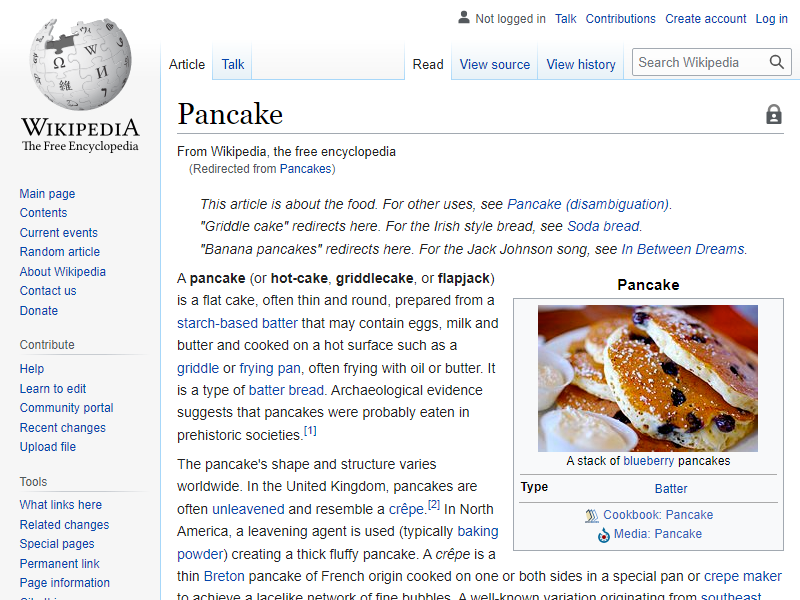
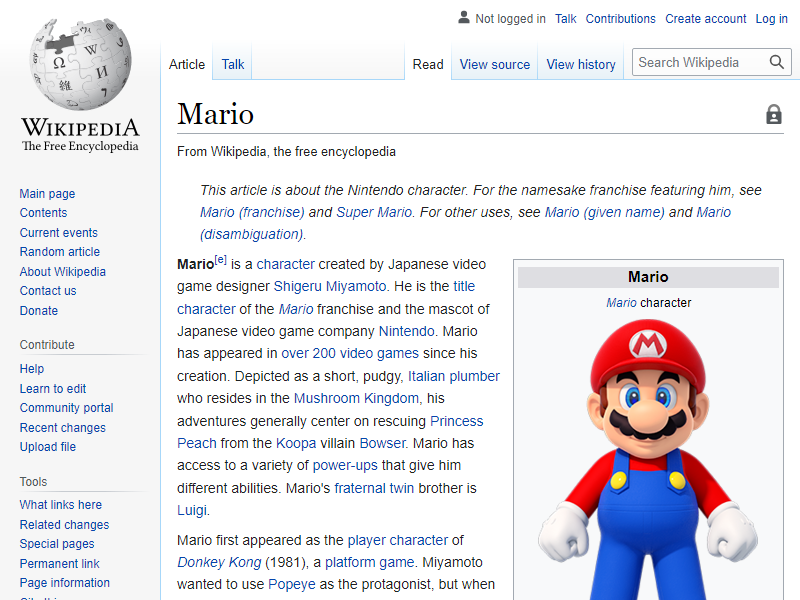
Can find random images

Changed region(s): [[0.2188, 0.27, 1.0, 1.0], [0.2188, 0.15, 0.375, 0.21]]

diff --git a/client/components/Add.js b/client/components/Add.js
@@ -1,9 +1,10 @@
-import React from 'react';
+import React, {useState} from 'react';
 import axios from 'axios'
 
 import Filter from './Filter'
 
 const Add = () => {
+    const [pic, setpic] = useState("")
 
     return <div>
                 <Filter />
@@ -12,12 +13,14 @@ const Add = () => {
                         const search = document.getElementsByClassName("search")
                         console.log(search[0].value)
                         const res = await axios.get('/api/route/add/' + search[0].value)
-                        console.log('hi')
+                        console.log(res.data)
+                        setpic(res.data)
                         }
                         catch (err){
                         console.log(err)
                         }
                 }}>Add</button>
+                <img src={pic}></img>
            </div>
 }
 

diff --git a/server/api/route.js b/server/api/route.js
@@ -10,9 +10,14 @@ router.get('/add/:search', async function (req, res, next){
         const browser = await puppeteer.launch()
         const page = await browser.newPage()
         await page.goto("https://en.wikipedia.org/wiki/" + req.params.search)
+        const result = await page.evaluate(() => {
+            const parent = document.querySelector(".infobox-image")
+            return parent.children[0].children[0].src
+        })
         await page.screenshot({path: "picture.png"})
         await browser.close()
-        res.sendStatus(200)
+        console.log(result)
+        res.send(result)
     }
     catch (err){
         next(err)
